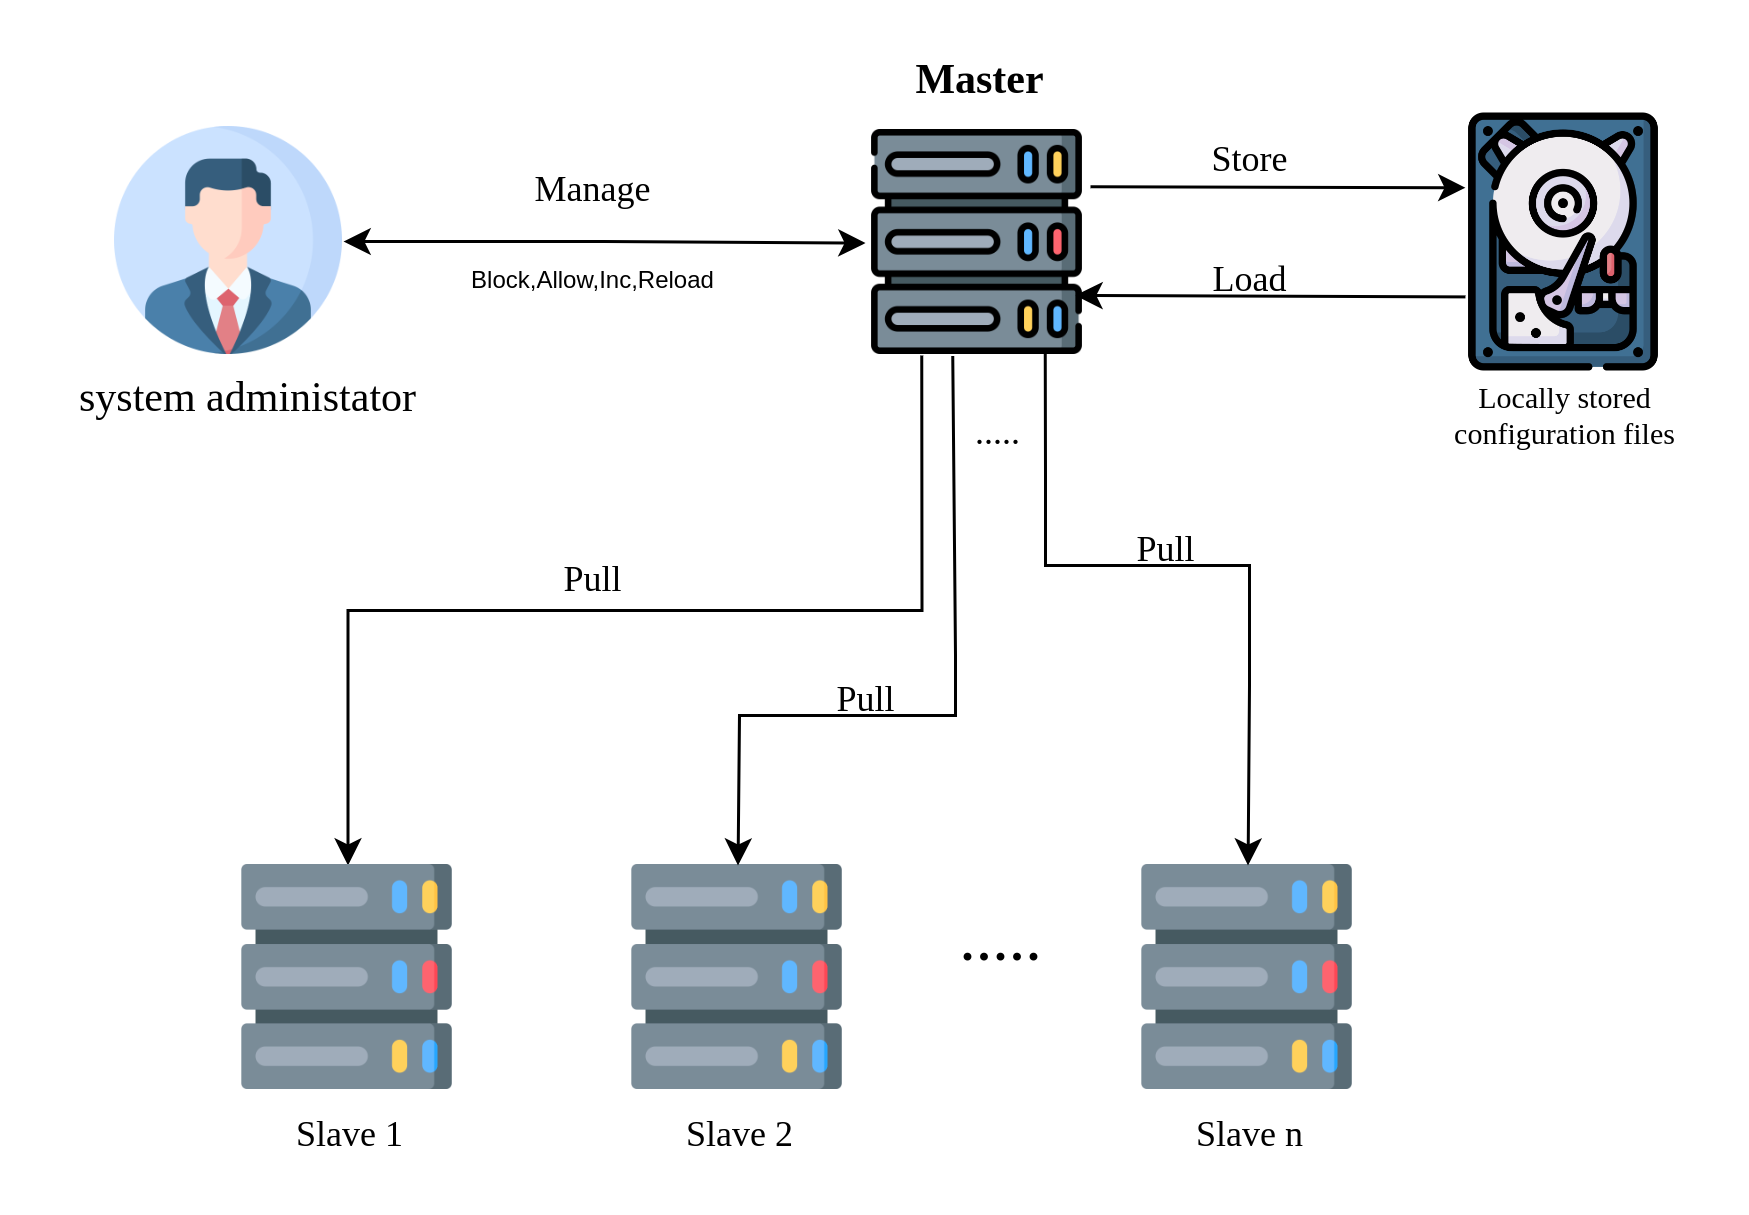
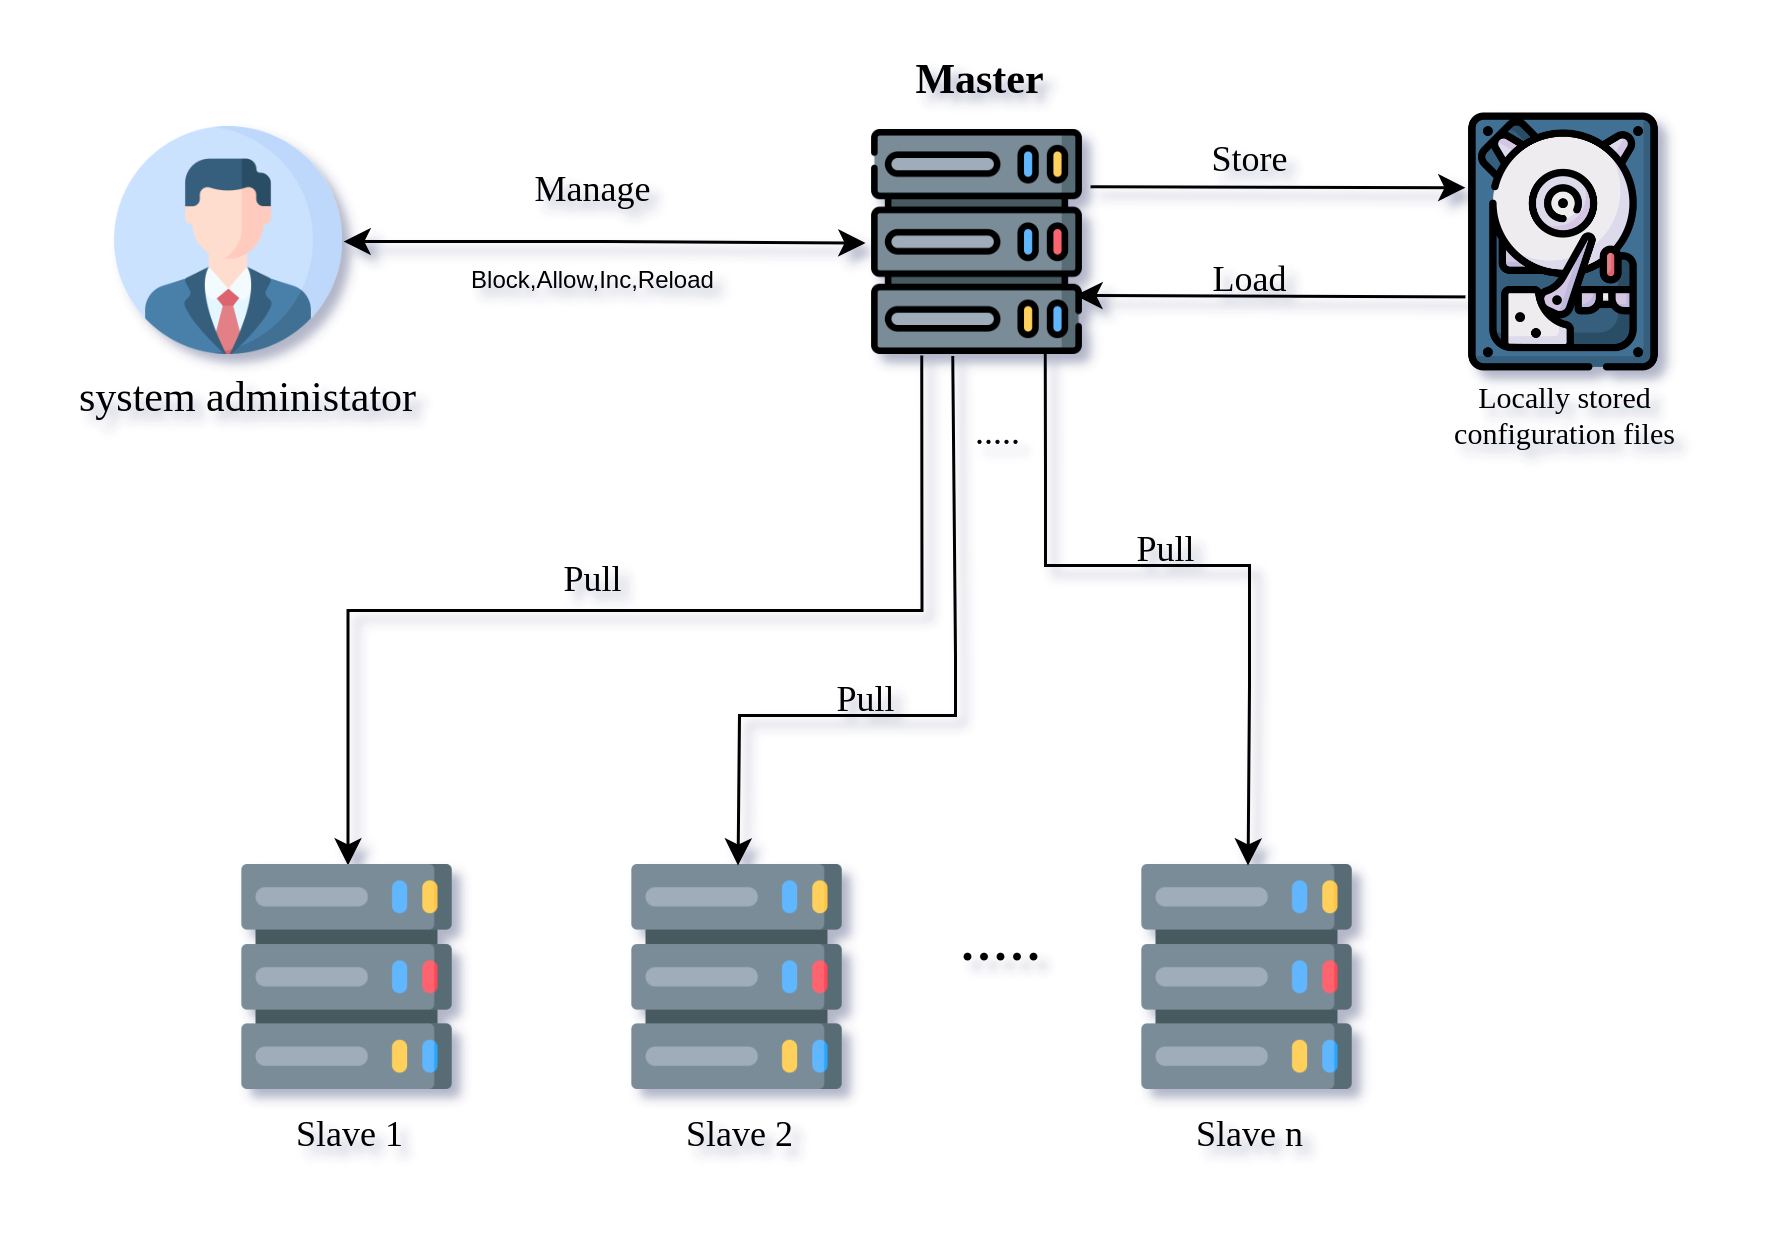
Adding master-slave diagram to README.md

diff --git a/README.md b/README.md
@@ -53,7 +53,7 @@ Usage of server:
 # GoXDP Master Service
 
 As the number of goxdp instances increases, The effort needed and complexity to manage them increases. Therefore, We introduce the Master-Slave communication where a single node acts as a master and multiple goxdp slaves are connected to it. Furthermore, all the block and unblock operations will be managed from a single master node. The following diagram describes the cluster setup
-![master-slave](master-slave.png){width=40%}
+![master-slave](master-slave.png){width=80%}
 
 # GoXDP Client
 
